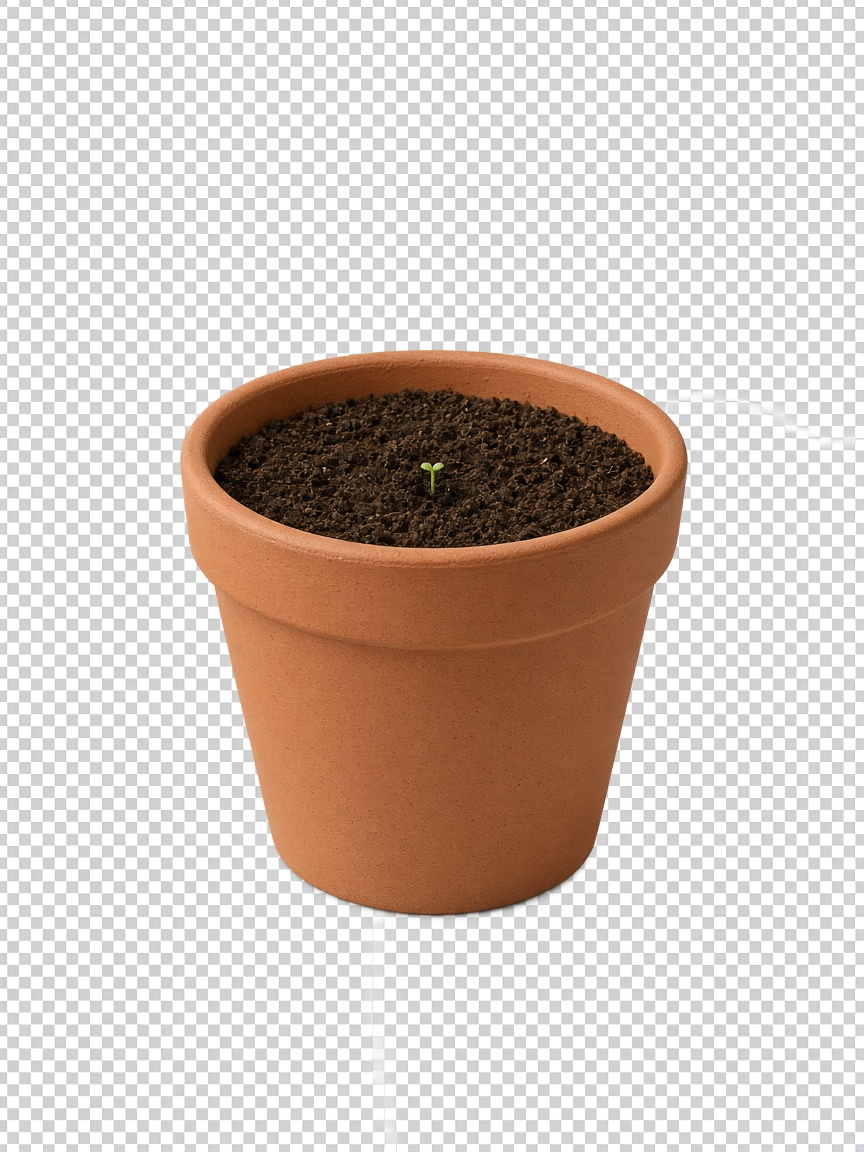
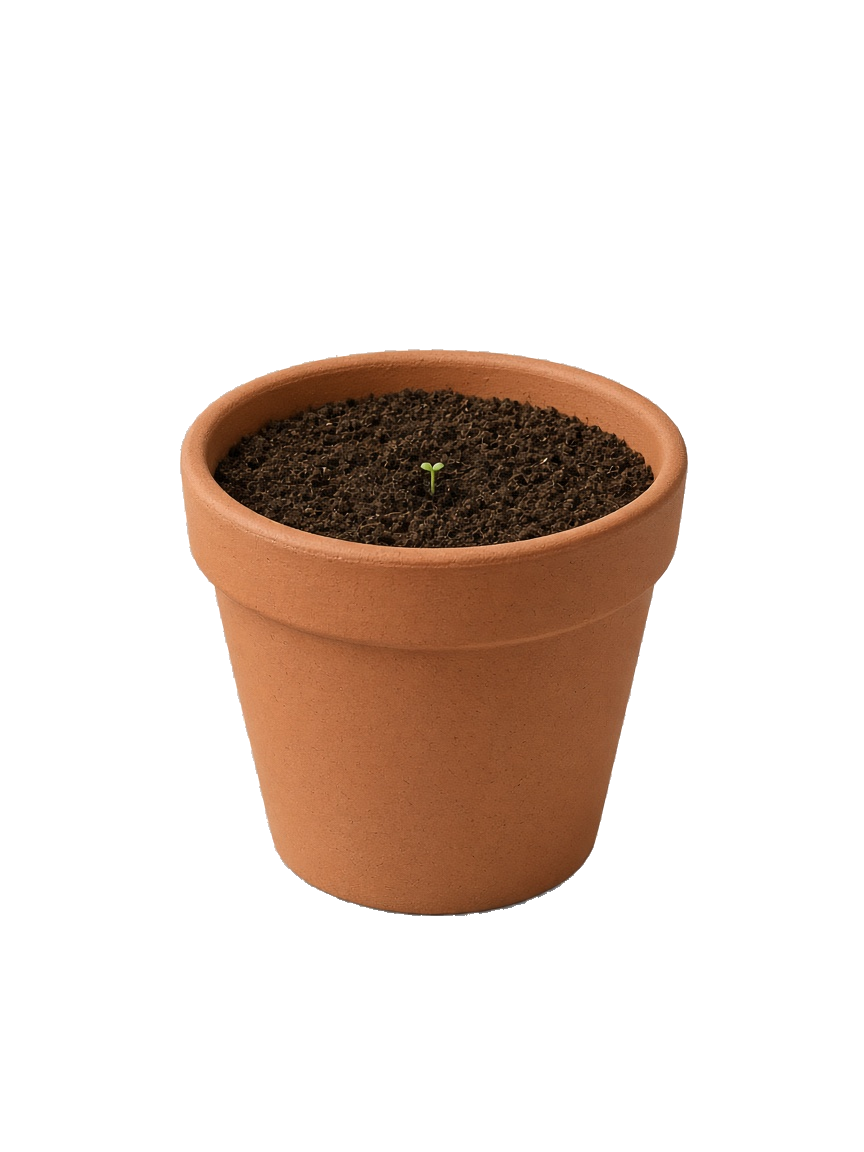
update 339

diff --git a/cpanel/assets/css/mana-path2.css b/cpanel/assets/css/mana-path2.css
@@ -58,28 +58,8 @@ body.mp2-page {
   display: block;
   width: 150px;
   height: auto;
-  filter: drop-shadow(0 8px 14px rgba(70, 45, 20, .16));
 }
-.mp2-plant-sway {
-  overflow: visible;
-  transform-origin: 50% 92%;
-  animation: mp2-wind 3.8s ease-in-out infinite;
-}
-.mp2-plant-sway.is-grew {
-  animation: mp2-wind 3.8s ease-in-out infinite, mp2-plant-grow 1.35s ease;
-}
-@keyframes mp2-wind {
-  0%, 100% { transform: rotate(-2.2deg); }
-  50% { transform: rotate(2.8deg); }
-}
-@keyframes mp2-plant-grow {
-  0% { transform: rotate(-1deg) scale(.97); }
-  45% { transform: rotate(2deg) scale(1.04); }
-  100% { transform: rotate(-2.2deg) scale(1); }
-}
-@media (prefers-reduced-motion: reduce) {
-  .mp2-plant-sway, .mp2-plant-sway.is-grew { animation: none; }
-}
+.mp2-plant-static { overflow: visible; }
 @media (max-width: 720px) {
   .mp2-plant-tile { flex-basis: 118px; width: 118px; }
   .mp2-plant-tile img { width: 118px; }

diff --git a/cpanel/includes/mana_path.php b/cpanel/includes/mana_path.php
@@ -1182,14 +1182,16 @@ function mana_path_plant_day(PDO $pdo, array &$profile): int
     $n = 0;
     try {
         $stmt = $pdo->prepare("
-          SELECT COUNT(*) AS c FROM mana_path_events
-          WHERE user_id = ? AND event_type = 'path2_day'
+          SELECT COUNT(DISTINCT DATE(created_at)) AS c
+          FROM mana_path_events
+          WHERE user_id = ? AND event_type IN ('mission', 'path2_day')
         ");
         $stmt->execute([(string) $profile['user_id']]);
         $n = (int) (($stmt->fetch()['c'] ?? 0));
     } catch (Throwable $ignored) {
     }
-    $day = min(30, max($stored, $n + 1));
+    $streak = (int) ($profile['gentle_streak'] ?? 0);
+    $day = min(30, max($stored, $n, $streak, 1));
     if ($day > $stored) {
         mana_path_plant_save($pdo, $profile, $day);
     }
@@ -1217,9 +1219,6 @@ function mana_path_plant_advance(PDO $pdo, array &$profile): int
 {
     $next = min(30, mana_path_plant_day($pdo, $profile));
     mana_path_plant_save($pdo, $profile, $next);
-    if (function_exists('session_status') && session_status() === PHP_SESSION_ACTIVE) {
-        $_SESSION['mp2_plant_grew'] = 1;
-    }
     return $next;
 }
 
@@ -1230,10 +1229,10 @@ function mana_path_plant_src(int $day): string
     for ($d = $day; $d >= 1; $d--) {
         $name = sprintf('plant-day-%02d.png', $d);
         if (is_file($dir . '/' . $name)) {
-            return url('/assets/img/plant/' . $name);
+            return url('/assets/img/plant/' . $name) . '?v=20260924i';
         }
     }
-    return url('/assets/img/plant/plant-day-01.png');
+    return url('/assets/img/plant/plant-day-01.png') . '?v=20260924i';
 }
 
 function mana_path2_advanced_today(PDO $pdo, string $userId): bool

diff --git a/cpanel/pages/patient/mana_path2.php b/cpanel/pages/patient/mana_path2.php
@@ -92,12 +92,10 @@ $xpNeed = mana_path_xp_need();
 $xpIn = $xp % $xpNeed;
 $plantDay = mana_path_plant_day($pdo, $profile);
 $plantSrc = mana_path_plant_src($plantDay);
-$plantGrew = !empty($_SESSION['mp2_plant_grew']);
-unset($_SESSION['mp2_plant_grew']);
 
 $GLOBALS['pageRobots'] = 'noindex,nofollow';
 $GLOBALS['pageTitle'] = 'اتاق ذهن';
-$GLOBALS['pageHead'] = '<link rel="stylesheet" href="' . e(url('/assets/css/mana-path2.css')) . '?v=20260924h">';
+$GLOBALS['pageHead'] = '<link rel="stylesheet" href="' . e(url('/assets/css/mana-path2.css')) . '?v=20260924i">';
 $GLOBALS['pageBodyClass'] = trim((string) ($GLOBALS['pageBodyClass'] ?? '') . ' mp2-page');
 
 ob_start();
@@ -110,7 +108,7 @@ ob_start();
       <p class="mp2-lead">کارهای امروز را همینجا بزن. هفته از شنبه شروع میشود.</p>
     </div>
     <aside class="mp2-plant-tile" id="xp" aria-label="گیاه مسیر، روز <?= e(to_fa_digits((string) $plantDay)) ?> از ۳۰">
-      <div class="mp2-plant-sway<?= $plantGrew ? ' is-grew' : '' ?>">
+      <div class="mp2-plant-static">
         <img src="<?= e($plantSrc) ?>" alt="" width="160" height="214">
       </div>
     </aside>
